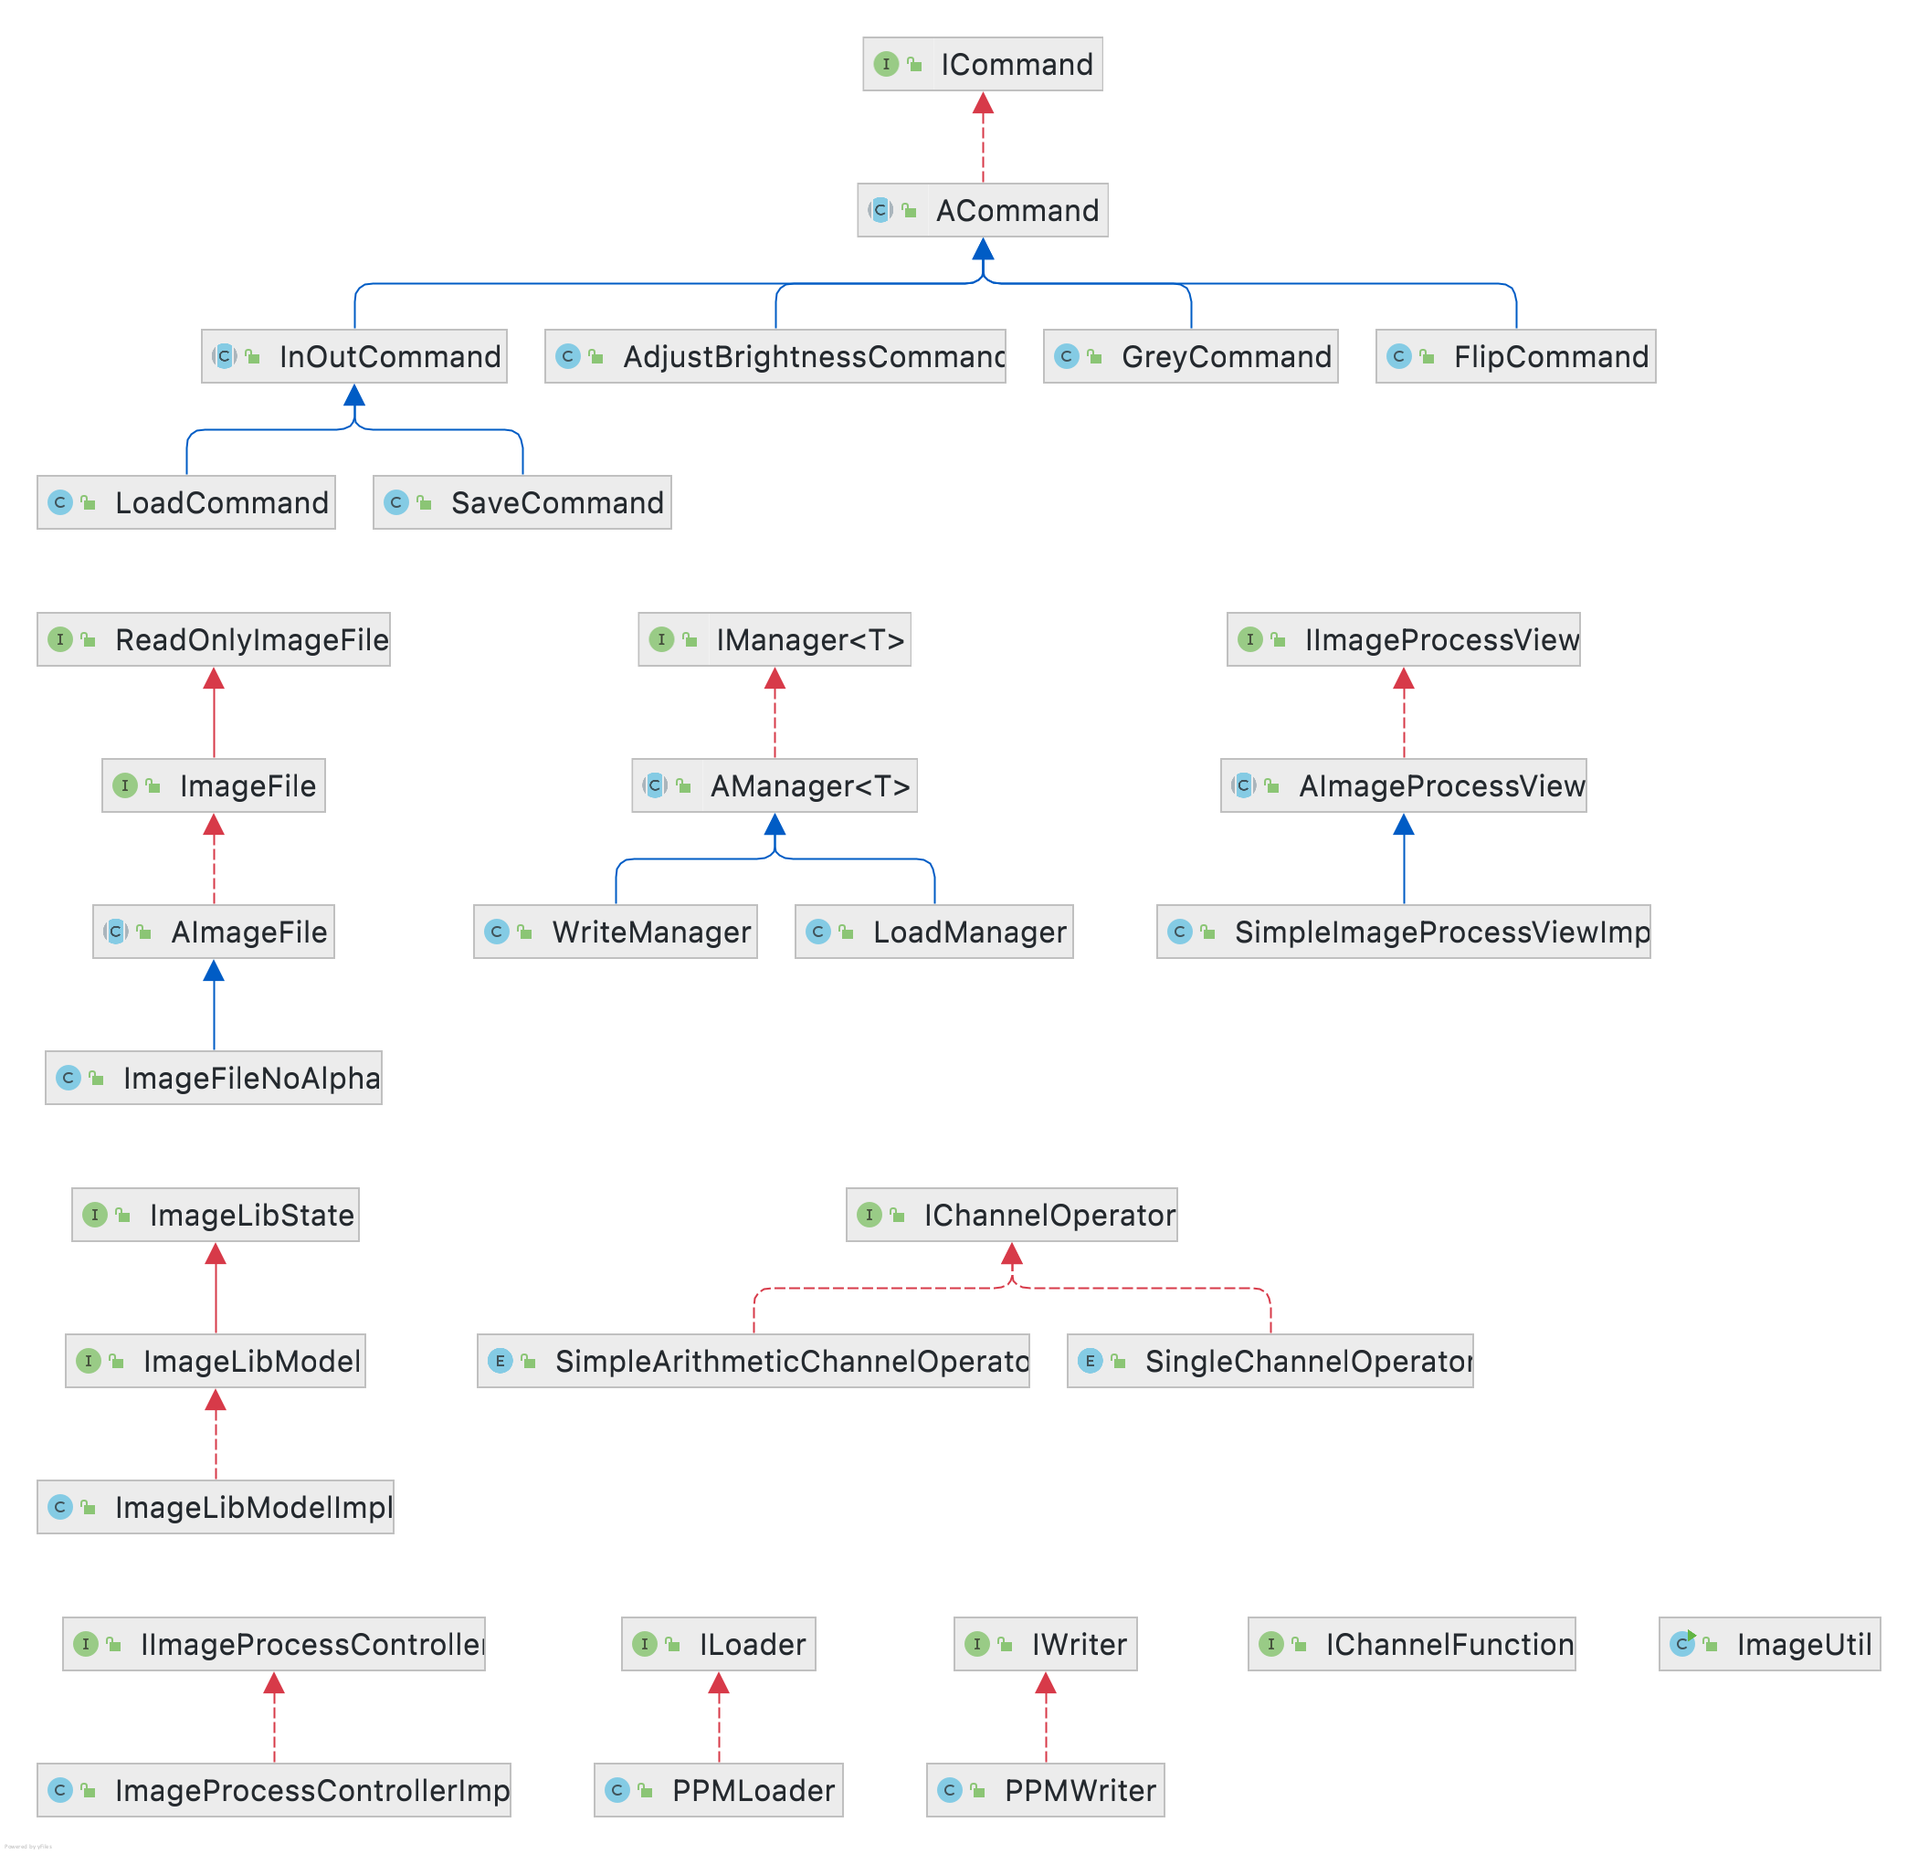
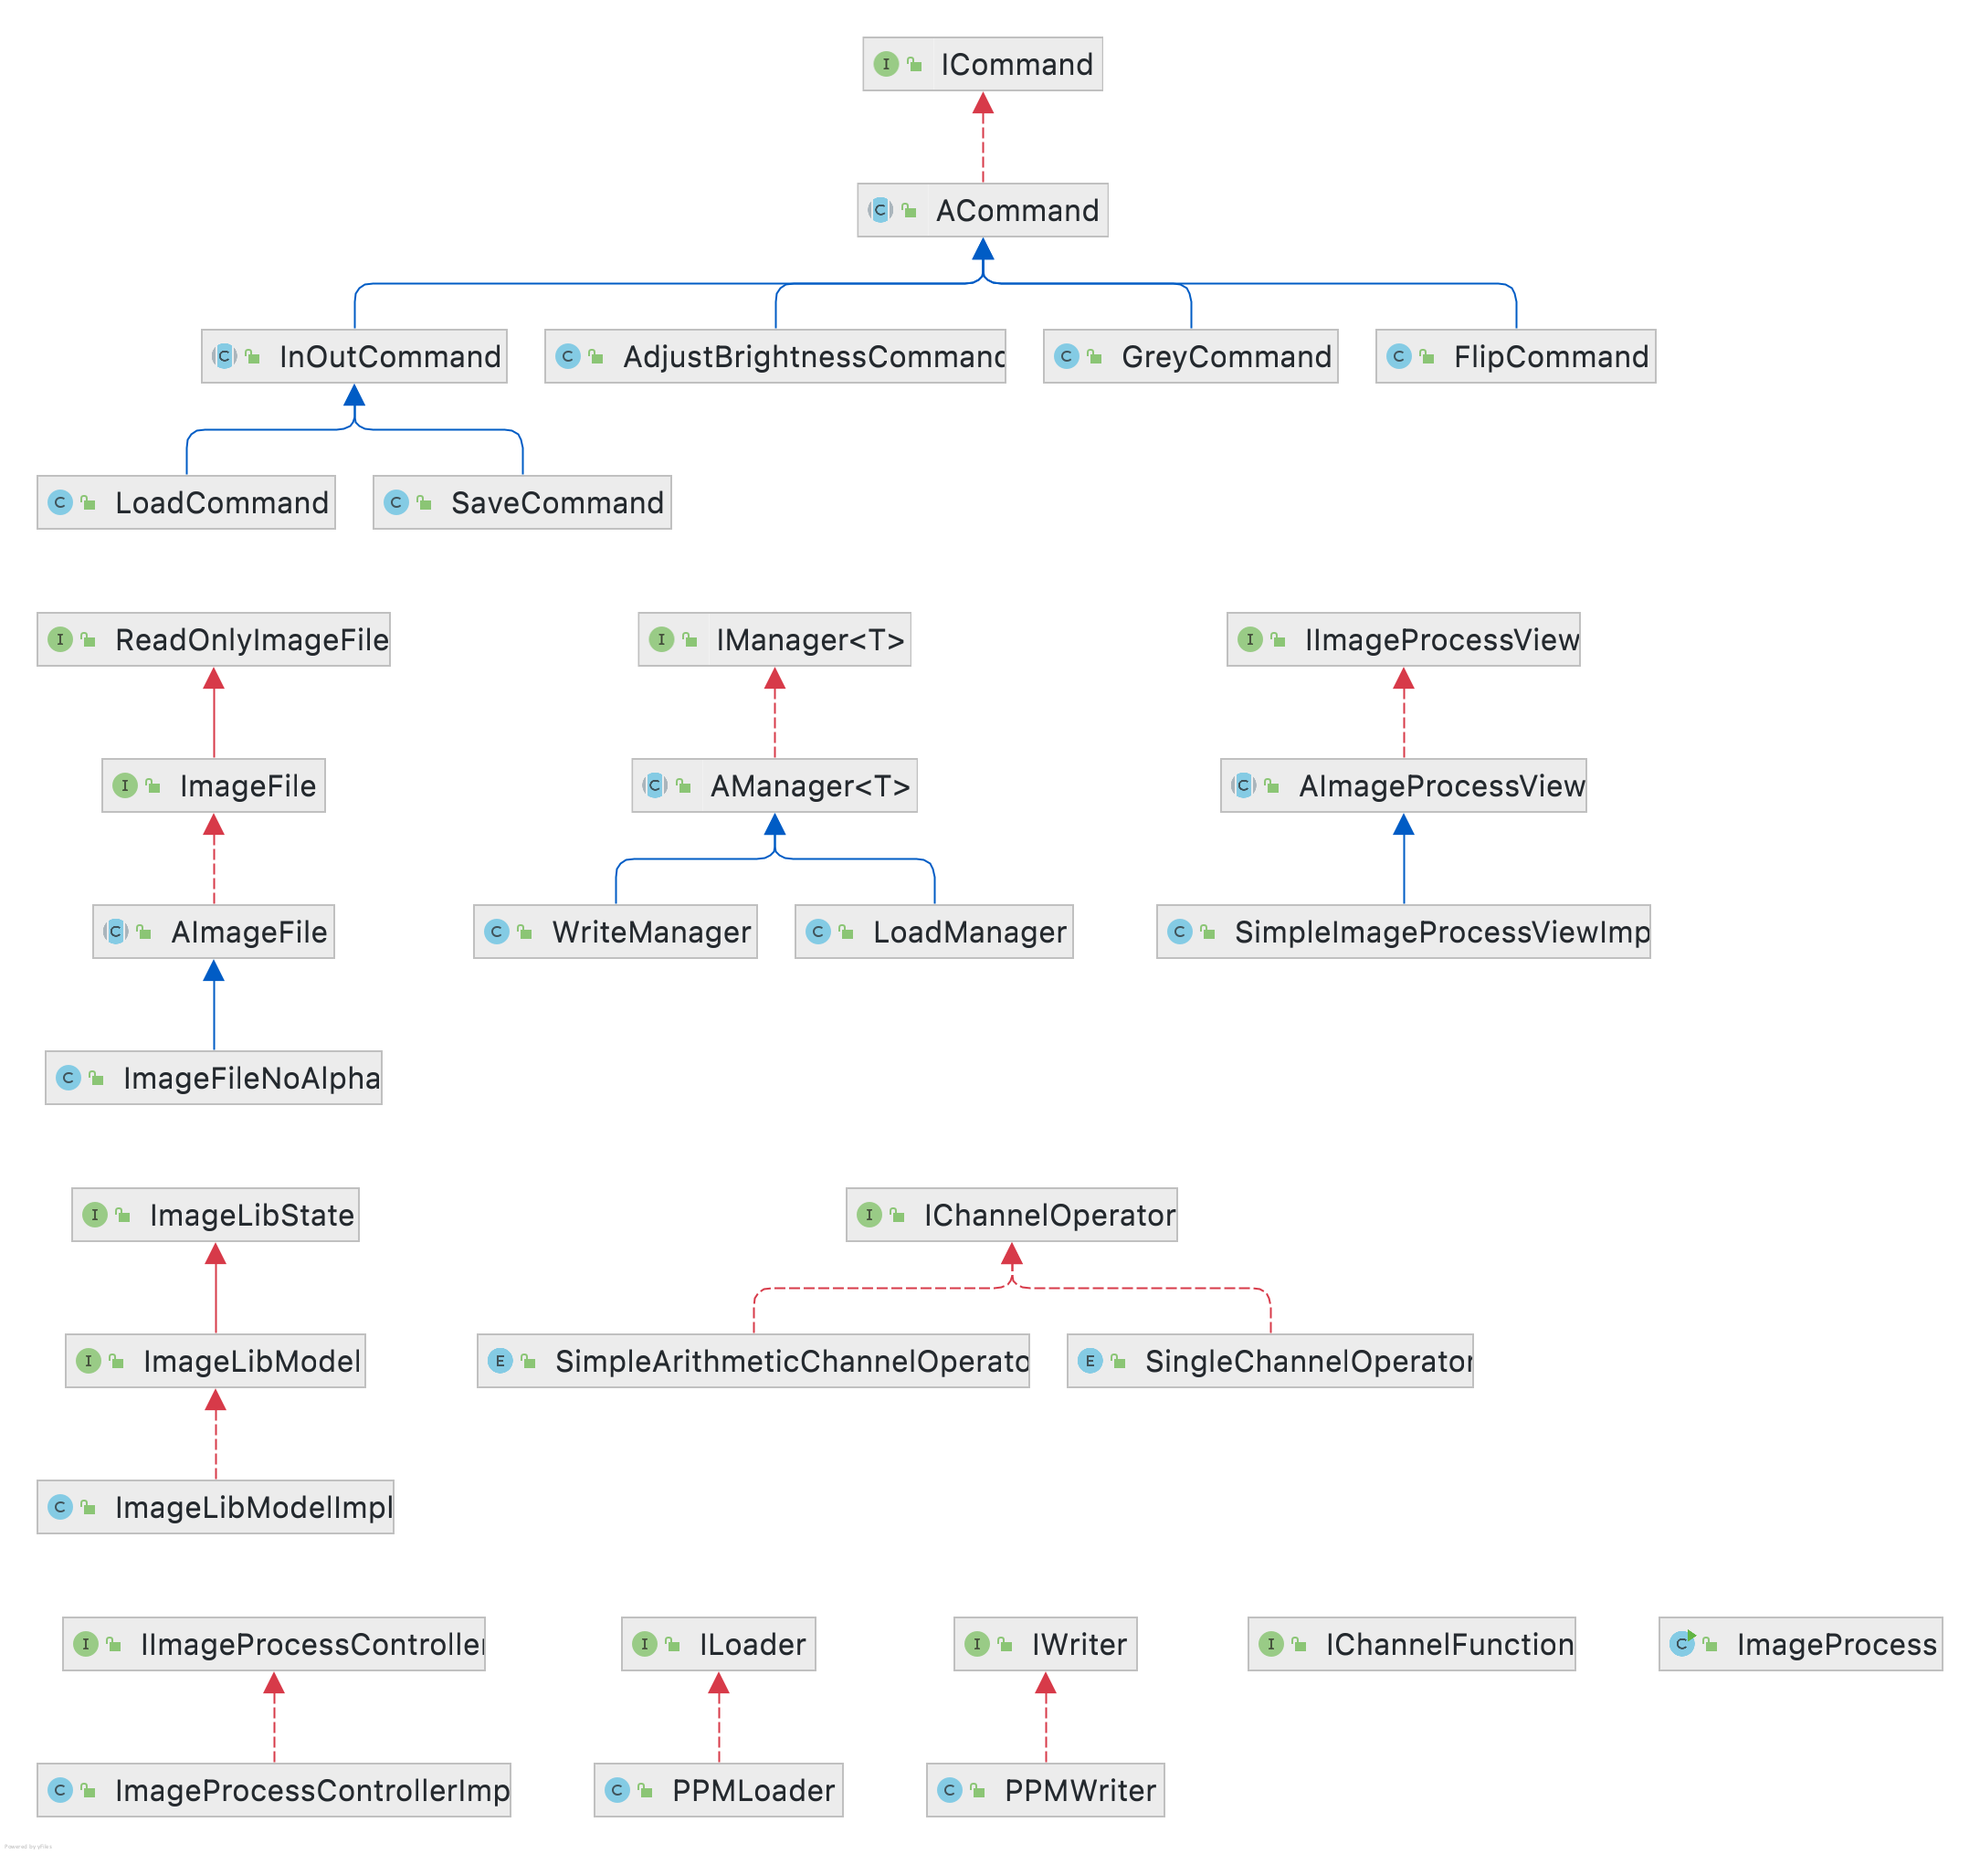
delete imageUtil, add new main in project root

diff --git a/HW04/src/ImageProcess.java b/HW04/src/ImageProcess.java
@@ -1,4 +1,3 @@
-package controller.utils;
 import java.io.InputStreamReader;
 
 import controller.controller.ImageProcessControllerImpl;
@@ -6,14 +5,7 @@ import model.library.ImageLibModel;
 import model.library.ImageLibModelImpl;
 import view.SimpleImageProcessViewImpl;
 
-
-/**
- * This class contains utility methods to read a PPM image from file and simply print its contents.
- * Feel free to change this method as required.
- */
-public class ImageUtil {
-  // defined methods can be put here in the future if they are not considered as any part of MVC.
-
+public class ImageProcess {
   public static void main(String[] args) {
     ImageLibModel m = new ImageLibModelImpl();
     ImageProcessControllerImpl c = new ImageProcessControllerImpl(m,
@@ -22,4 +14,3 @@ public class ImageUtil {
     c.run();
   }
 }
-
